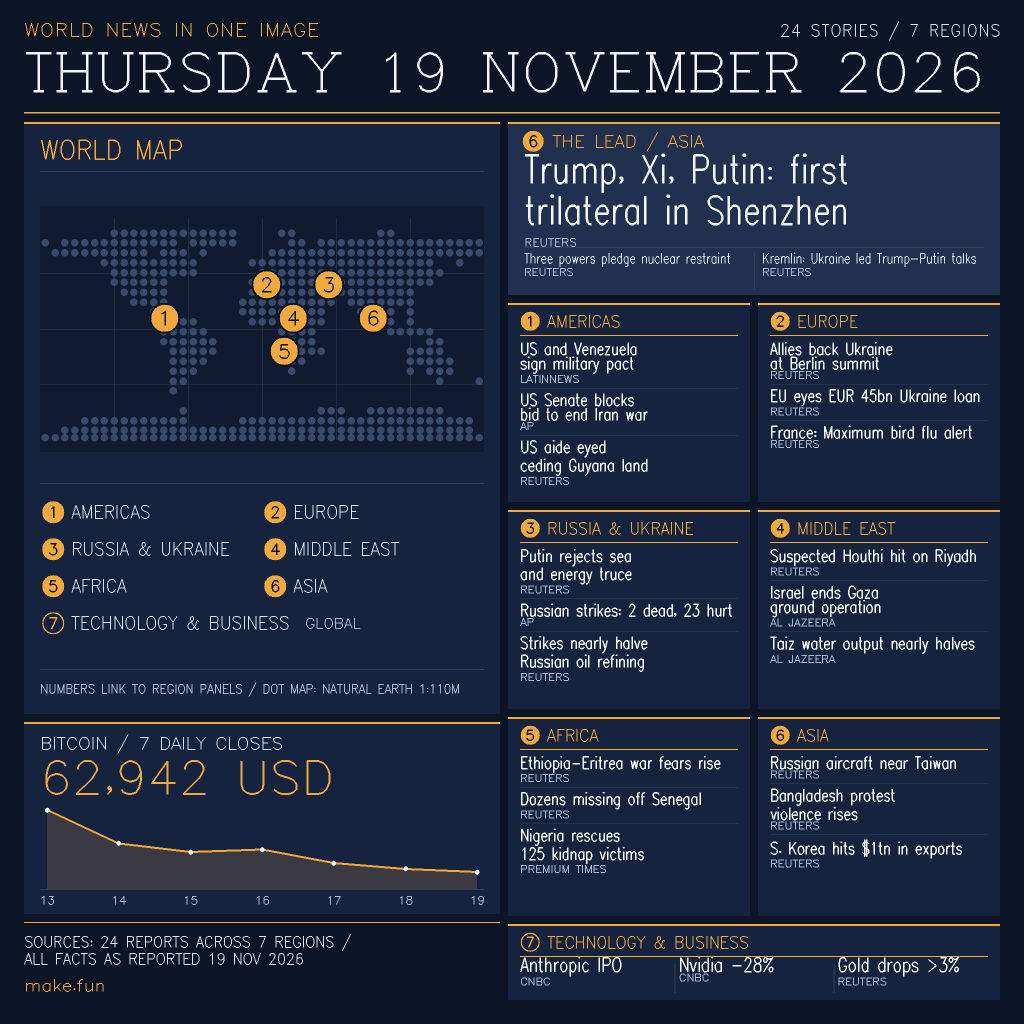
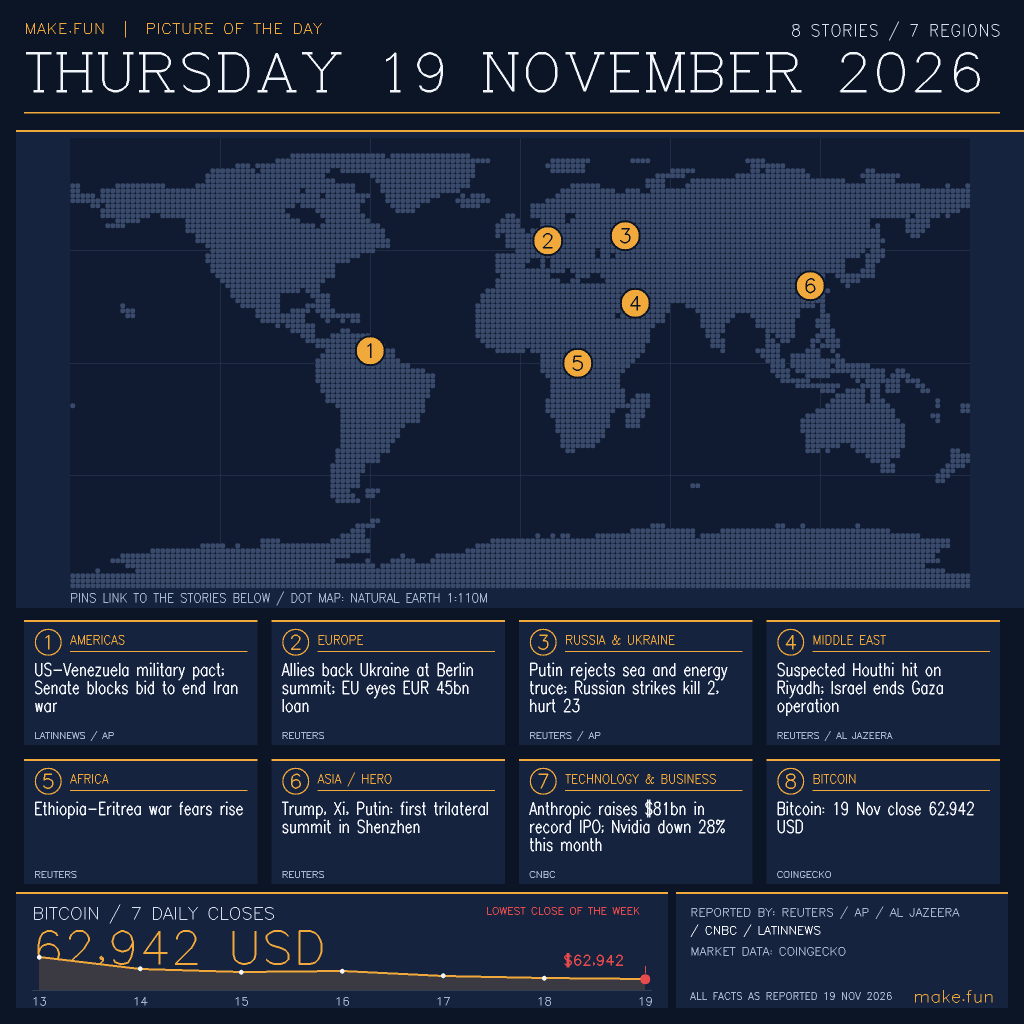
v6: dense dot map, corrected pins, footer spacing (news-image-20261119)

diff --git a/main.py b/main.py
@@ -120,6 +120,7 @@ ROMAN_COORDINATES = {
 }
 
 # Natural Earth 1:110m, 180 by 90 samples packed row-major, high bit first.
+MASK_COLS, MASK_ROWS = 180, 90
 LANDMASK_B64 = (
     'AAAAAAAAAAAAAAAAAAAAAAAAAAAAAAAAAAAAAAAAAAAAAAAAAAAAAAAAAAAAAAAAAAAAAAAAAAAAAAAA'
[1 lines of base64/hex data omitted]
@@ -157,89 +158,29 @@ LANDMASK_B64 = (
     '////////////////////////////////////////////////////////////'
 )
 
-# Panel and map key order. The global business desk only appears in the key.
+# Eight selected reports for the compact 19 November 2026 edition.
+# Map pins use (longitude, latitude) on the landmask's equirectangular grid.
 REGIONS = (
-    ('AMERICAS', (0.28, 0.45)), ('EUROPE', (0.51, 0.30)),
-    ('RUSSIA & UKRAINE', (0.65, 0.30)), ('MIDDLE EAST', (0.57, 0.45)),
-    ('AFRICA', (0.55, 0.60)), ('ASIA', (0.75, 0.45)),
-    ('TECHNOLOGY & BUSINESS', None),
+    ('AMERICAS', (-60, 5)), ('EUROPE', (11, 49)),
+    ('RUSSIA & UKRAINE', (42, 51)), ('MIDDLE EAST', (46, 24)),
+    ('AFRICA', (23, 0)), ('ASIA', (116, 31)),
 )
-# The supplied reports, unedited. Tuple fields: id, region index, headline,
-# detail, source. Keeping the detail also makes this entry's data auditable.
 REPORTS = [
- (1,0,'Senate Republicans block Democratic effort to end war in Iran','Forty-eight-to-fifty-one vote was first since midterm losses','AP'),
- (2,0,'House Democrats nominate Hakeem Jeffries for House speaker','He would be first African American to hold the role','Reuters'),
- (3,0,'Appeals court halts order restoring deportation protections for Venezuelans','Ninth Circuit pause blocks reinstatement of Temporary Protected Status','AP'),
- (4,0,'US defence chief Hegseth signs military pact with Venezuela in Caracas','Military cooperation resumes after 21-year freeze, leader says','LatinNews'),
- (5,0,'Trump official floated ceding Guyanese territory to Venezuela','State Department planning director raised idea in September, sources say','Reuters'),
- (6,1,'European allies rally for Ukraine at Berlin summit','Coalition of the Willing reaffirms binding security guarantees','Reuters'),
- (7,1,'Netherlands summons Russian ambassador after Kyiv embassy hit','Projectile landed behind Dutch embassy; nobody injured','Reuters'),
- (8,1,'EU proposes 45-billion-euro loan to bridge Ukraine funding gap','Loan covers part of 70-billion-euro shortfall for next year','Reuters'),
- (9,1,'French Greens ready to back Melenchon presidential bid','Hard-left leader gains potential ally for 2027 race','Reuters'),
- (10,1,'France raises bird flu alert to maximum level','Poultry confinement rules take effect Friday amid European spread','Reuters'),
- (11,1,'Bundesbank says German growth and inflation set to accelerate','Fiscal stimulus drives expansion; inflation to rise sharply in 2027','Reuters'),
- (12,1,'European stocks rebound as Anthropic IPO lifts tech optimism','ASML and chipmakers lead gains after three losing sessions','Reuters'),
- (13,2,'Suspected Houthi missile strikes Riyadh skyscraper housing wealth fund','Saudi sovereign wealth fund headquarters hit, no major casualties reported','Reuters'),
- (14,2,'Israel ends first major Gaza ground operation since ceasefire','Operation in Nuseirat targeted tunnel; thousands displaced again','Al Jazeera'),
- (15,2,'Saudi-led coalition says it repelled Houthi attacks on kingdom','Escalation follows strike on Riyadh fund headquarters tower','Al Jazeera'),
- (16,2,'Trump says US will see what happens with Iran after January 1','Comments delay decision on renewed major strikes into next year','Reuters'),
- (17,2,'UNICEF warns water production nearly halved in Yemeni city of Taiz','More than 800,000 people cut off from humanitarian assistance','Al Jazeera'),
- (18,2,'Mosque torched in northern Israel sparks backlash against Netanyahu','Suspected arson hits Palestinian Arab village of al-Dahi','Al Jazeera'),
- (19,3,'Dozens missing as migrant boat capsizes off Senegal coast','Boast bound for Europe overturned, local NGO says','Reuters'),
- (20,3,'Sudanese army bombs RSF intelligence headquarters in Nyala','Strikes also hit command facility and civilian administration building','Sudan Tribune'),
- (21,3,"RSF claims capture of Bau district in Sudan's Blue Nile state",'Army units fled toward state capital, paramilitary group claims','Sudan Tribune'),
- (22,3,'Ethiopia and Eritrea amass forces along border, raising war fears','Overnight drone and artillery strikes reported around Badme','Reuters'),
- (23,3,'Nigerian military rescues 125 kidnap victims, dismantles terror camps','United States commends operation ahead of 2027 elections','Premium Times'),
- (24,4,'Trump, Xi, Putin hold first-ever trilateral summit in Shenzhen','Leaders met on sidelines of APEC summit in southern China','Reuters'),
- (25,4,'Three powers issue peace declaration pledging nuclear restraint','Statement says nuclear war cannot be won and must never be fought','Reuters'),
- (26,4,"Japan's PM Takaichi cuts isolated figure at APEC summit",'China rift over Taiwan remarks brought muted reception, no bilateral','Reuters'),
- (27,4,'Taiwan reports two Russian military aircraft near island','Tu-95 bombers flew past east coast, second time this week','Reuters'),
- (28,4,'Indonesia parliament passes asset forfeiture bill into law','Law allows seizing assets in certain criminal cases','Reuters'),
- (29,4,'Violence rises in Bangladesh as Hasina supporters escalate protests',"Protests by former PM's supporters fuel instability",'Reuters'),
- (30,4,'South Korea becomes fourth country to reach one trillion dollars in exports','AI chip boom powers milestone, government data shows','Reuters'),
- (31,4,"South Korea's Supreme Court orders retrial for ex-PM Han",'Ruling concerns his role in martial law attempt','Reuters'),
- (32,5,'Third Ukrainian strike in four days halts Kerch Bridge traffic','Overnight attack stopped rail traffic; repairs resumed later Thursday','AP'),
- (33,5,'Putin rules out Black Sea and energy truce after bridge strikes',"Vows response far more painful than Kyiv's attack",'Reuters'),
- (34,5,'Putin invites European envoys to Moscow on Ukraine talks','Says Europe must clarify position before format is decided','Reuters'),
- (35,5,'Trump says nuclear arms limits with China and Russia will be hard','Joint dialogue on reducing nuclear risks agreed at summit','Reuters'),
- (36,5,'Russian strikes kill two, wound 23 across 12 Ukrainian regions','Kyiv says Russia launched Oniks missiles and 98 drones overnight','AP'),
- (37,5,"Ukrainian drone attacks nearly halve Russia's November oil refining",'Campaign targets refining capacity, sources tell Reuters','Reuters'),
- (38,5,'Kremlin says Ukraine was main topic at Trump-Putin meeting',"Aide Ushakov says Putin's mood after talks was excellent",'Reuters'),
- (39,6,'Anthropic debut fails to revive AI trade; Dow closes below 50,000','Nasdaq falls 2.25 percent to 23,879.20 in broad selloff','CNBC'),
- (40,6,'Anthropic raises 81 billion dollars in largest IPO on record','Claude maker priced at 83 dollars, closed up 17 percent','CNBC'),
- (41,6,'Nvidia slides 28 percent this month amid CEO Huang resignation fallout','Investors question profitability of heavy AI infrastructure spending','CNBC'),
- (42,6,'Gold sinks over 3 percent to more-than-one-year low','Hawkish Fed signals lift dollar and Treasury yields','Reuters'),
- (43,6,'Bitcoin slides under 62,000 dollars, down about 25 percent in a month','Anthropic-led tech selloff extends crypto slump','Bitcoin Magazine'),
- (44,6,'Oil prices slide as hawkish Fed signals lift the dollar','Global stocks also slip ahead of Anthropic market debut','Reuters'),
+ (1,0,'US-Venezuela military pact; Senate blocks bid to end Iran war','Military cooperation resumes; Senate rejects war-ending effort','LATINNEWS / AP'),
+ (2,1,'Allies back Ukraine at Berlin summit; EU eyes EUR 45bn loan','Reuters reports security pledges and proposed financing','REUTERS'),
+ (3,2,'Putin rejects sea and energy truce; Russian strikes kill 2, hurt 23','Reuters / AP','REUTERS / AP'),
+ (4,3,'Suspected Houthi hit on Riyadh; Israel ends Gaza operation','Reuters / Al Jazeera','REUTERS / AL JAZEERA'),
+ (5,4,'Ethiopia-Eritrea war fears rise','Forces amass along the border near Badme','REUTERS'),
+ (6,5,'Trump, Xi, Putin: first trilateral summit in Shenzhen','Leaders met on the sidelines of APEC','REUTERS'),
+ (7,6,'Anthropic raises $81bn in record IPO; Nvidia down 28% this month','Anthropic closes up 17 percent; Nvidia monthly decline','CNBC'),
+ (8,6,'Bitcoin: 19 Nov close 62,942 USD','Seven daily closes: 13-19 November 2026','COINGECKO'),
 ]
 BTC = [('2026-11-13',68661), ('2026-11-14',65615), ('2026-11-15',64795),
        ('2026-11-16',65030), ('2026-11-17',63795), ('2026-11-18',63253),
        ('2026-11-19',62942)]
 
 # Short display headlines keyed to the original reports above.
-PANEL_STORIES = (
-    ((4, 'US and Venezuela sign military pact'),
-     (1, 'US Senate blocks bid to end Iran war'),
-     (5, 'US aide eyed ceding Guyana land')),
-    ((6, 'Allies back Ukraine at Berlin summit'),
-     (8, 'EU eyes EUR 45bn Ukraine loan'),
-     (10, 'France: Maximum bird flu alert')),
-    ((33, 'Putin rejects sea and energy truce'),
-     (36, 'Russian strikes: 2 dead, 23 hurt'),
-     (37, 'Strikes nearly halve Russian oil refining')),
-    ((13, 'Suspected Houthi hit on Riyadh'),
-     (14, 'Israel ends Gaza ground operation'),
-     (17, 'Taiz water output nearly halves')),
-    ((22, 'Ethiopia-Eritrea war fears rise'),
-     (19, 'Dozens missing off Senegal'),
-     (23, 'Nigeria rescues 125 kidnap victims')),
-    ((27, 'Russian aircraft near Taiwan'),
-     (29, 'Bangladesh protest violence rises'),
-     (30, 'S. Korea hits $1tn in exports')),
-    ((40, 'Anthropic IPO'),
-     (41, 'Nvidia -28%'),
-     (42, 'Gold drops >3%')),
-)
+PANEL_STORIES = tuple(((i, headline),) for i, _, headline, _, _ in REPORTS)
 
 NAVY = (12,21,38)
 PANEL = (22,35,63)
@@ -415,17 +356,18 @@ def measure(text,size,font=SANS,tracking=0):
 
 
 def wrap(text, size, width, font):
-    def fits(line):
-        return measure(line, size, font) <= width
-
-    if fits(text):
-        return [text]
-    words = text.split()
-    pairs = [(' '.join(words[:i]), ' '.join(words[i:])) for i in range(1, len(words))]
-    choices = [pair for pair in pairs if all(map(fits, pair))]
-    assert choices, (text, size, width)
-    return min(choices, key=lambda pair: abs(measure(pair[0], size, font)
-                                           - measure(pair[1], size, font)))
+    lines, current = [], ''
+    for word in text.split():
+        trial = (current + ' ' + word).strip()
+        if current and measure(trial, size, font) > width:
+            lines.append(current)
+            current = word
+        else:
+            current = trial
+    if current:
+        lines.append(current)
+    assert all(measure(line, size, font) <= width for line in lines), (text, size, width)
+    return lines
 
 
 def card(page, x, y, w, h, color=PANEL):
@@ -520,12 +462,10 @@ def hero(page, x, y, w, h):
 
 def world_map(page, x, y, w, h):
     first = card(page, x, y, w, h)
-    page.text('WORLD MAP', x+16, y+18, 19, AMBER, weight=3, font=TAG, width=w-32)
-    page.rect(x+16, y+49, w-32, 1, RULE)
-
-    mx, my, mw = x+16, y+96, w-32
-    mh = mw/2
-    page.rect(mx, my-12, mw, mh+24, MAP_WATER)
+    cell = 5
+    mw, mh = MASK_COLS*cell, MASK_ROWS*cell
+    mx, my = x+(w-mw)/2, y+8
+    page.rect(mx, my, mw, mh, MAP_WATER)
     for i in range(1, 6):
         page.rect(mx+i*mw/6, my, 0.5, mh, RULE)
     for i in range(1, 4):
@@ -533,34 +473,21 @@ def world_map(page, x, y, w, h):
 
     packed = base64.b64decode(LANDMASK_B64, validate=True)
     mask = ''.join(f'{byte:08b}' for byte in packed)
-    assert len(mask) == 180*90
-    cell = mw/180
-    # Average 4x4 mask samples so each land dot has clear space around it.
-    for row in range(0, 90, 4):
-        rows = range(row, min(row+4, 90))
-        for col in range(0, 180, 4):
-            land_samples = sum(mask[r*180+col:r*180+col+4].count('1') for r in rows)
-            if land_samples >= len(rows)*2:
-                page.dot(mx+(col+2)*cell, my+(row+len(rows)/2)*cell, 3.7, LAND)
-    for i, (_, pin) in enumerate(REGIONS, 1):
-        if pin is not None:
-            px, py = mx+pin[0]*mw, my+pin[1]*mh
-            page.dot(px, py, 15.5, NAVY)
-            chip(page, i, px, py, 27)
-
-    lx, ly = x+16, y+379
-    page.rect(lx, ly-18, w-32, 1, RULE)
-    for i, (label, pin) in enumerate(REGIONS):
-        col, row = i % 2, i // 2
-        xx, yy = lx+col*(mw/2)+13, ly+row*37
-        chip(page, i+1, xx, yy+11, 22, filled=pin is not None)
-        width = mw/2-31 if pin is not None else mw-31
-        page.text(label, xx+18, yy+4, 13, BODY, weight=2, font=TAG, width=width)
-        if pin is None:
-            page.text('GLOBAL', xx+252, yy+6, 10, GREY, width=75)
-    page.rect(lx, y+h-45, mw, 1, RULE)
-    page.text('NUMBERS LINK TO REGION PANELS / DOT MAP: NATURAL EARTH 1:110M',
-              lx, y+h-30, 9, GREY, font=TAG, width=mw)
+    assert len(mask) == MASK_COLS*MASK_ROWS
+    for index, sample in enumerate(mask):
+        if sample == '1':
+            row, col = divmod(index, MASK_COLS)
+            page.dot(mx+(col+0.5)*cell, my+(row+0.5)*cell, 2.5, LAND)
+    for i, (label, (lon, lat)) in enumerate(REGIONS, 1):
+        u, v = (lon+180)/360, (90-lat)/180
+        assert 0 <= u < 1 and 0 <= v < 1, (label, 'pin outside map')
+        col, row = int(u*MASK_COLS), int(v*MASK_ROWS)
+        assert mask[row*MASK_COLS+col] == '1', (label, 'pin in water')
+        px, py = mx+u*mw, my+v*mh
+        page.dot(px, py, 15.5, NAVY)
+        chip(page, i, px, py, 27)
+    page.text('PINS LINK TO THE STORIES BELOW / DOT MAP: NATURAL EARTH 1:110M',
+              mx, my+mh+5, 9, GREY, font=TAG, width=mw)
     check_card(page, first, x, y, w, h)
 
 
@@ -571,9 +498,10 @@ def bitcoin(page, x, y, w, h):
     page.text(f'{BTC[-1][1]:,} USD', tx, y+39, 33, AMBER, weight=4, width=inner)
     values = [value for _, value in BTC]
     low, high = min(values), max(values)
-    points = [(tx+7+i*(inner-14)/(len(values)-1), y+88+(high-v)/(high-low)*62)
+    plot_top, plot_bottom = y+65, y+h-29
+    points = [(tx+7+i*(inner-14)/(len(values)-1), plot_top+(high-v)/(high-low)*(plot_bottom-plot_top))
               for i, v in enumerate(values)]
-    baseline = y+h-25
+    baseline = y+h-18
     for (px, py), (qx, qy) in zip(points, points[1:]):
         for col in range(round(px*SCALE), round(qx*SCALE)):
             x_at = col/SCALE
@@ -586,14 +514,60 @@ def bitcoin(page, x, y, w, h):
         page.dot(px, py, 2.3, WHITE)
         day = date[-2:]
         page.text(day, px-measure(day, 8)/2, baseline+7, 8, GREY, width=16)
+    low_index = values.index(min(values))
+    lx, ly = points[low_index]
+    page.dot(lx, ly, 5, (232,75,75))
+    page.text(f'${values[low_index]:,}', lx-82, plot_top-2, 10, (232,75,75), weight=3, width=70)
+    page.text('LOWEST CLOSE OF THE WEEK', tx+inner-166, y+15, 7, (232,75,75), weight=2, width=166)
+    page.line(lx, plot_top+9, lx, ly-6, (232,75,75), 2)
+    check_card(page, first, x, y, w, h)
+
+
+def story_cards(page, x, y, w, h):
+    gap = 14
+    card_w = (w - 3*gap) / 4
+    card_h = (h - gap) / 2
+    for index, (report_id, region, headline, _, source) in enumerate(REPORTS):
+        row, col = divmod(index, 4)
+        xx, yy = x + col*(card_w+gap), y + row*(card_h+gap)
+        first = card(page, xx, yy, card_w, card_h)
+        chip(page, index+1, xx+24, yy+22, 27, filled=False)
+        tag = ('AMERICAS','EUROPE','RUSSIA & UKRAINE','MIDDLE EAST','AFRICA','ASIA / HERO','TECHNOLOGY & BUSINESS','BITCOIN')[index]
+        page.text(tag, xx+46, yy+15, 9, AMBER, weight=2, font=TAG, width=card_w-56)
+        page.rect(xx+46, yy+31, card_w-56, 1, AMBER)
+        size = 12.5
+        lines = wrap(headline, size, card_w-20, HEADLINE)
+        while len(lines) > 4:
+            size -= .25
+            lines = wrap(headline, size, card_w-20, HEADLINE)
+        ty = yy+43
+        for line in lines:
+            page.text(line, xx+10, ty, size, WHITE, weight=3, font=HEADLINE, width=card_w-20)
+            ty += 18
+        page.text(source, xx+10, yy+card_h-13, 6.5, GREY, width=card_w-20)
+        page.rendered.append(report_id)
+        check_card(page, first, xx, yy, card_w, card_h)
+
+
+def sources(page, x, y, w, h):
+    first = card(page, x, y, w, h)
+    page.text('REPORTED BY: REUTERS / AP / AL JAZEERA', x+14, y+16, 8, GREY, weight=2, width=w-28)
+    page.text('/ CNBC / LATINNEWS', x+14, y+34, 8, WHITE, weight=2, width=w-28)
+    page.text('MARKET DATA: COINGECKO', x+14, y+55, 8, GREY, weight=2, width=w-28)
+    wordmark = 'make.fun'
+    wordmark_width = measure(wordmark, 12)
+    wordmark_x = x+w-14-wordmark_width
+    page.text('ALL FACTS AS REPORTED 19 NOV 2026', x+14, y+h-16, 7.5, GREY,
+              font=TAG, width=wordmark_x-(x+14)-20, tracking=0.35)
+    page.text(wordmark, wordmark_x, y+h-18, 12, AMBER, width=wordmark_width)
     check_card(page, first, x, y, w, h)
 
 
 def main():
     page = Page()
-    page.text('WORLD NEWS IN ONE IMAGE', EDGE, 23, 13, AMBER, weight=2,
-              width=450, tracking=1.1)
-    count = '24 STORIES / 7 REGIONS'
+    page.text('MAKE.FUN  |  PICTURE OF THE DAY', EDGE, 23, 10.5, AMBER, weight=2,
+              width=450, tracking=.7)
+    count = '8 STORIES / 7 REGIONS'
     count_width = measure(count, 12, TAG, 1)
     page.text(count, 1024-EDGE-count_width, 24, 12, BODY, font=TAG,
               width=count_width, tracking=1)
@@ -601,35 +575,14 @@ def main():
               font=MASTHEAD, width=1024-2*EDGE, tracking=1.4)
     page.rect(EDGE, 112, 1024-2*EDGE, 1.5, AMBER)
 
-    content_y = 122
-    map_height = 592
-    chart_y = content_y+map_height+GUTTER
-    chart_height = 192
-    world_map(page, EDGE, content_y, LEFT_WIDTH, map_height)
-    bitcoin(page, EDGE, chart_y, LEFT_WIDTH, chart_height)
-
-    footer_y = chart_y+chart_height+GUTTER
-    page.rect(EDGE, footer_y, LEFT_WIDTH, 1, AMBER)
-    page.text('SOURCES: 24 REPORTS ACROSS 7 REGIONS /', EDGE, footer_y+14, 11,
-              BODY, font=TAG, width=LEFT_WIDTH)
-    page.text('ALL FACTS AS REPORTED 19 NOV 2026', EDGE, footer_y+31, 11,
-              BODY, font=TAG, width=LEFT_WIDTH)
-    page.text('make.fun', EDGE, footer_y+57, 12, AMBER, width=LEFT_WIDTH)
-
-    hero_height, row_height = 173, 199
-    hero(page, RIGHT_X, content_y, RIGHT_WIDTH, hero_height)
-    grid_y = content_y+hero_height+GUTTER
-    col_width = (RIGHT_WIDTH-GUTTER)/2
-    for index in range(6):
-        row, col = divmod(index, 2)
-        region_panel(page, index, RIGHT_X+col*(col_width+GUTTER),
-                     grid_y+row*(row_height+GUTTER), col_width, row_height)
-    tech_y = grid_y+3*(row_height+GUTTER)
-    region_panel(page, 6, RIGHT_X, tech_y, RIGHT_WIDTH, 1024-EDGE-tech_y)
-
-    assert len(page.rendered) == len(set(page.rendered)) == 24
-    assert all(sum(REPORTS[i-1][1] == region for i in page.rendered) >= 2
-               for region in range(len(REGIONS)))
+    world_map(page, 16, 130, 1008, 478)
+    story_cards(page, 24, 620, 976, 264)
+    bitcoin(page, 16, 892, 652, 116)
+    sources(page, 676, 892, 332, 116)
+    assert page.rendered == [report[0] for report in REPORTS]
+    assert len(page.rendered) == len(set(page.rendered)) == 8
+    assert {report[1] for report in REPORTS} == set(range(7))
+    assert [date for date, _ in BTC] == [f'2026-11-{day:02d}' for day in range(13, 20)]
     # Compare actual glyph ink rectangles, including descenders and stroke width.
     for i,(a,box) in enumerate(page.text_boxes):
         for b,other in page.text_boxes[i+1:]:
@@ -644,7 +597,7 @@ def main():
         f.write(png)
     print(json.dumps({'output':path,'bytes':len(png),'sha256':hashlib.sha256(png).hexdigest(),
                       'stories':len(page.rendered),'text_bounds_checked':len(page.text_boxes),
-                      'layout':'dot map and Bitcoin on left, Shenzhen lead and seven region cards on right'},sort_keys=True))
+                       'layout':'dot map above eight story cards, Bitcoin and sources below'},sort_keys=True))
 
 
 if __name__ == '__main__':

diff --git a/README.md b/README.md
@@ -6,7 +6,7 @@
 
 Entry for the make.fun bounty **"Sum up 19 November's world news in one image"**:
 a pure-stdlib Python program that renders a 1024x1024 PNG summarizing the day's
-world news — 44 stories across 7 regions on one dense newspaper-style page.
+world news — 8 story cards across 7 desks on one newspaper-style page.
 
 `main.py` writes `entry.png` to `$MAKEFUN_OUTPUT_DIR` (default `/output`).
 Deterministic: two runs produce byte-identical output. No network, no third-party
